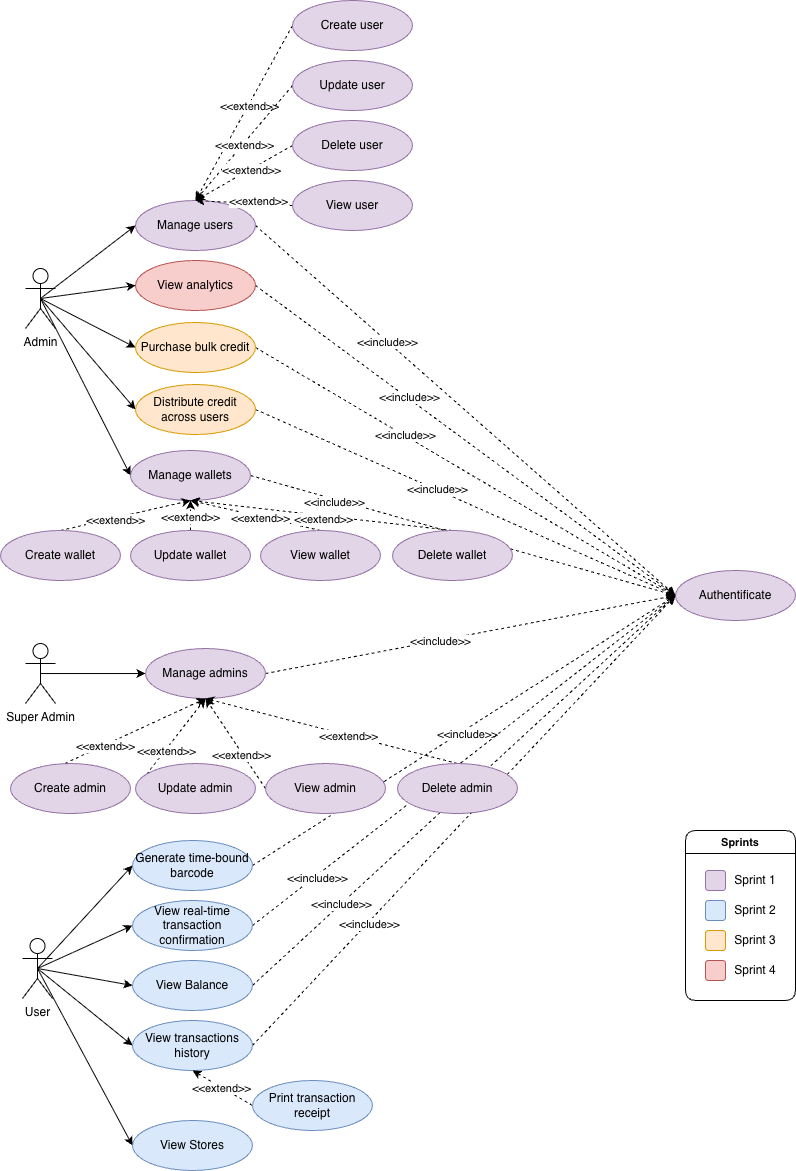
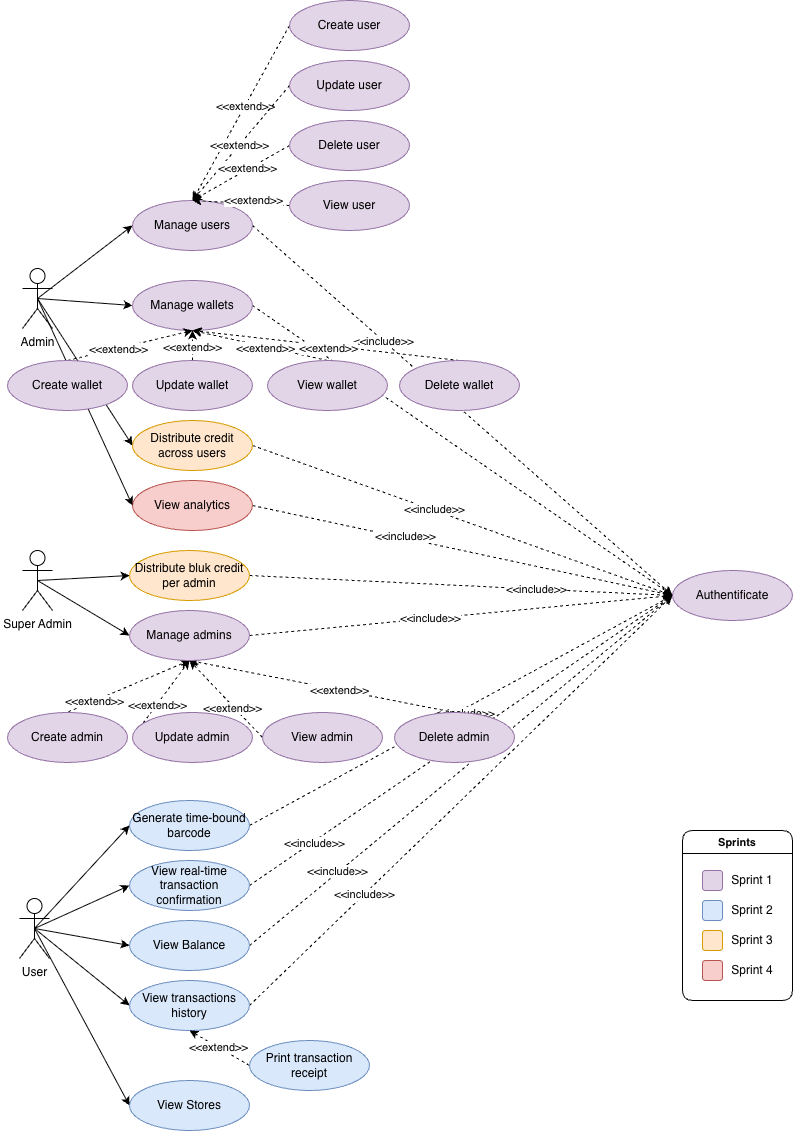
update use case for super admin credit distribution

diff --git a/chapters/chapter_4_sections/4.1_sprint_3.tex b/chapters/chapter_4_sections/4.1_sprint_3.tex
@@ -13,17 +13,17 @@ In this section, we first detail the Sprint 3 backlog, then present the design a
   \begin{tabular}{|p{1cm}|p{4cm}|p{7cm}|p{2cm}|}
     \hline
     \textbf{ID} & \textbf{User Story}               & \textbf{Description}                                                                                             & \textbf{Priority} \\ \hline
-    US7         & Purchase bulk credit & As an Admin, I want to purchase bulk credit for my organization to enable payment transactions for end users. & High            \\ \hline
-    US8         & Distribute credit across users       & As an Admin, I want to distribute purchased credit across end users to enable their payment capabilities. & Critical         \\ \hline
+    US7         & Distribute bulk credit to Admin & As a Super Admin, I want to distribute bulk credit to an Admin after they provide cash at ASM to enable their organizational payment capabilities. & High            \\ \hline
+    US8         & Distribute credit across users       & As an Admin, I want to distribute received credit across end users to enable their payment capabilities. & Critical         \\ \hline
   \end{tabular}
 \end{table}
 
 \subsection{Use Case Diagram}
 
-Figure~\ref{fig:uc_sprint3} presents the two major use cases developed during Sprint 3: purchasing bulk credit and distributing credit across users. It illustrates their respective interactions with the \textit{Admin} actor and the authentication system.
+Figure~\ref{fig:uc_sprint3} presents the two major use cases developed during Sprint 3: Super Admin distributing bulk credit to Admin and Admin distributing credit across users. It illustrates their respective interactions with the \textit{Super Admin} and \textit{Admin} actors and the authentication system.
 
 \begin{figure}[H]
-   \centering
+  \centering
   \includegraphics[width=0.8\textwidth]{images/usecase_sprint3.png}
   \caption{Use Case Diagram – Sprint 3}
   \label{fig:uc_sprint3}
@@ -33,48 +33,52 @@ Figure~\ref{fig:uc_sprint3} presents the two major use cases developed during Sp
 
 In this section, we detail each use case identified for Sprint 3.
 
-\subsubsection{Use Case "Purchase bulk credit"}
+\subsubsection{Use Case "Distribute bulk credit per admin"}
 
 \begin{longtable}{|p{0.2\textwidth}|p{0.75\textwidth}|}
-  \caption{Description of use case "Purchase bulk credit"}
-  \label{tab:uc_purchase_bulk_credit} \\
+  \caption{Description of use case "Distribute bulk credit per admin"}
+  \label{tab:uc_distribute_bulk_credit_admin} \\
   \hline
-  \textbf{Title} & Purchase bulk credit \\ \hline
-  \textbf{Actors} & Admin \\ \hline
-  \textbf{Description} & The Admin purchases bulk credit for their organization through email verification and Super Admin approval process. \\ \hline
+  \textbf{Title} & Distribute bulk credit per admin \\ \hline
+  \textbf{Actors} & Super Admin \\ \hline
+  \textbf{Description} & The Super Admin distributes bulk credit to an Admin after the Admin provides cash payment at ASM (physical location). This process involves balance verification and transaction processing through the web application. \\ \hline
   \textbf{Preconditions} & 
     \begin{itemize}[nosep,leftmargin=*]
-      \item The Admin is authenticated with valid credentials.
-      \item The Admin has sufficient funds or valid payment method.
-      \item Super Admin server is available for transaction processing.
+      \item The Super Admin is authenticated with valid credentials.
+      \item The Admin has provided cash payment at ASM.
+      \item Super Admin has sufficient balance to distribute.
+      \item Transaction controller is operational for processing.
     \end{itemize} \\ \hline
   \textbf{Postconditions} & 
     \begin{itemize}[nosep,leftmargin=*]
-      \item Bulk credit is purchased and added to Admin balance.
-      \item Transaction record is created with purchase details.
-      \item Admin receives confirmation of successful purchase.
+      \item Bulk credit is distributed and added to Admin balance.
+      \item Transaction record is created with distribution details.
+      \item Super Admin receives confirmation of successful distribution.
+      \item Admin receives notification of credit allocation.
     \end{itemize} \\ \hline
   \textbf{Main Scenario} &
     \begin{enumerate}[nosep,leftmargin=*]
-      \item Admin selects "Purchase Bulk Credit" option.
-      \item System displays credit purchase form with amount selection.
-      \item Admin enters desired credit amount and confirms.
-      \item System sends email verification to Admin.
-      \item Admin confirms via email verification link.
-      \item System forwards transaction to Super Admin server for processing.
-      \item Super Admin accepts the payment and provides credit to Admin.
-      \item System updates Admin total balance with purchased credit.
-      \item Admin receives success confirmation message.
+      \item Admin provides cash payment at ASM physical location.
+      \item Super Admin logs into the web application.
+      \item Super Admin selects "Distribute Credit to Admin" option.
+      \item System displays Admin selection form with amount input.
+      \item Super Admin selects target Admin and enters credit amount.
+      \item System validates Super Admin balance sufficiency.
+      \item Transaction controller processes credit distribution.
+      \item System updates Super Admin and Admin balances.
+      \item Super Admin receives success confirmation message.
+      \item Admin receives credit allocation notification.
     \end{enumerate} \\ \hline
   \textbf{Alternative Scenarios} &
     \begin{enumerate}[nosep,leftmargin=*]
-      \item If Admin cancels purchase, return to main dashboard.
-      \item If email verification expires, resend verification email.
+      \item If Super Admin modifies amount, recalculate and revalidate balance.
+      \item If Admin is not found, display Admin selection error.
     \end{enumerate} \\ \hline
   \textbf{Exception Scenarios} &
     \begin{enumerate}[nosep,leftmargin=*]
-      \item If Super Admin refuses payment, display "Payment rejected" with rejection email.
-      \item If transaction processing fails, show "Transaction failed, please retry".
+      \item If insufficient Super Admin balance, display "Not enough balance, credit distribution cancelled".
+      \item If transaction processing fails, show "Distribution failed, please retry".
+      \item If Admin account is inactive, display "Cannot distribute to inactive Admin".
       \item If network timeout occurs, display "Connection error, please retry".
     \end{enumerate} \\ \hline
 \end{longtable}
@@ -87,7 +91,7 @@ In this section, we detail each use case identified for Sprint 3.
   \hline
   \textbf{Title} & Distribute credit across users \\ \hline
   \textbf{Actors} & Admin \\ \hline
-  \textbf{Description} & Admin distributes purchased credit to end users within their organization, with balance validation and transaction processing. \\ \hline
+  \textbf{Description} & Admin distributes received credit to end users within their organization, with balance validation and transaction processing. \\ \hline
   \textbf{Preconditions} & 
     \begin{itemize}[nosep,leftmargin=*]
       \item Admin is authenticated and has sufficient credit balance.
@@ -125,23 +129,23 @@ In this section, we detail each use case identified for Sprint 3.
 
 \subsection{Sequence Diagrams}
 
-\subsubsection{Sequence Diagram - Purchase Bulk Credit}
+\subsubsection{Sequence Diagram - Distribute Bulk Credit to Admin}
 
-This diagram (see figure \ref{fig:seq_purchase_bulk_credit}) models the bulk credit purchase process with email verification and Super Admin approval:
+This diagram (see figure \ref{fig:seq_distribute_credit_to_admin}) models the bulk credit distribution process from Super Admin to Admin after cash payment at ASM:
 
 \begin{itemize}[nosep,leftmargin=*]
-  \item Admin initiates bulk credit purchase request.
-  \item System sends email verification and waits for confirmation.
-  \item Upon email confirmation, transaction is forwarded to Super Admin server.
-  \item Super Admin processes payment and either accepts or refuses the transaction.
-  \item System updates Admin balance and provides confirmation.
+  \item Super Admin initiates credit distribution request after Admin provides cash at ASM.
+  \item System validates Super Admin balance sufficiency.
+  \item Transaction controller processes the credit distribution.
+  \item System updates both Super Admin and Admin balances.
+  \item Super Admin receives success confirmation or error message.
 \end{itemize}
 
 \begin{figure}[H] 
   \centering
-  \includegraphics[width=0.9\textwidth,keepaspectratio]{images/seq_purchase_bulk_credit.png}
-  \caption{Sequence Diagram "Purchase Bulk Credit"}
-  \label{fig:seq_purchase_bulk_credit}
+  \includegraphics[width=0.9\textwidth,keepaspectratio]{images/seq_distribute_credit_to_admin.png}
+  \caption{Sequence Diagram "Distribute Bulk Credit to Admin"}
+  \label{fig:seq_distribute_credit_admin}
 \end{figure}
 
 \subsubsection{Sequence Diagram - Distribute Credit Across Users}
@@ -164,43 +168,44 @@ This diagram (see figure \ref{fig:seq_distribute_credit}) shows the credit distr
 
 \subsection{Realization (Sprint 3)}
 
-In this section, we present the main interfaces developed during Sprint 3, dedicated to credit management functionality. This work involved implementing bulk credit purchasing and credit distribution systems. Each interface is illustrated with screenshots and accompanied by descriptions of functionality and user journey.
+In this section, we present the main interfaces developed during Sprint 3, dedicated to credit management functionality. This work involved implementing Super Admin credit distribution to Admins and Admin credit distribution to end users. Each interface is illustrated with screenshots and accompanied by descriptions of functionality and user journey.
 
-\subsubsection{Bulk Credit Purchase Interface}
+\subsubsection{Super Admin Credit Distribution Interface}
 
-The bulk credit purchase interface guides Admins through the credit purchasing process with email verification and Super Admin approval.
+The Super Admin credit distribution interface enables Super Admins to allocate credit to Admins after they provide cash payment at ASM.
 
 \begin{figure}[H]
   \centering
-  \fbox{\parbox{\textwidth}{\centering\vspace{3cm}[Bulk Credit Purchase Interface Screenshot Placeholder]\\\vspace{0.5cm}This will show the credit purchase form with amount selection, payment method,\\email verification process, and Super Admin approval workflow.\vspace{3cm}}}
-  \caption{Bulk Credit Purchase Interface}
-  \label{fig:sprint3_purchase_interface}
+  \fbox{\parbox{\textwidth}{\centering\vspace{3cm}[Super Admin Credit Distribution Interface Screenshot Placeholder]\\\vspace{0.5cm}This will show the Admin selection dropdown, credit amount input field,\\balance validation display, and distribution confirmation with real-time balance updates.\vspace{3cm}}}
+  \caption{Super Admin Credit Distribution Interface}
+  \label{fig:sprint3_superadmin_distribution_interface}
 \end{figure}
 
 — \textbf{States presented:}
 \begin{itemize}[nosep,leftmargin=*,label=•]
-  \item \textbf{Amount selection}  
-    Admin selects desired credit amount with pricing display.
-  \item \textbf{Payment method}  
-    Selection of payment method and billing information.
-  \item \textbf{Email verification}  
-    System sends verification email for transaction security.
-  \item \textbf{Super Admin approval}  
-    Transaction forwarded to Super Admin for processing.
+  \item \textbf{Admin selection}  
+    Dropdown list of all Admins with their current balance display.
+  \item \textbf{Amount input}  
+    Input field for specifying credit amount to distribute.
+  \item \textbf{Balance validation}  
+    Real-time validation of sufficient Super Admin balance.
+  \item \textbf{Distribution confirmation}  
+    Summary and confirmation of credit distribution to Admin.
 \end{itemize}
 
-— \textbf{Credit purchase flow:}
+— \textbf{Credit distribution flow:}
 \begin{itemize}[nosep,leftmargin=*,label=•]
-  \item Admin is authenticated and accesses purchase form.
-  \item Admin selects credit amount and confirms purchase details.
-  \item System sends email verification for security confirmation.
-  \item Upon email verification, transaction is sent to Super Admin for approval.
-  \item Super Admin processes payment and credits are added to Admin balance.
+  \item Admin provides cash payment at ASM physical location.
+  \item Super Admin is authenticated and accesses distribution interface.
+  \item Super Admin selects target Admin from dropdown list.
+  \item Super Admin enters credit amount corresponding to cash received.
+  \item System validates sufficient Super Admin balance for distribution.
+  \item Upon confirmation, credit is distributed and both balances are updated.
 \end{itemize}
 
 \subsubsection{Credit Distribution Dashboard}
 
-The credit distribution dashboard enables Admins to allocate purchased credit across their end users.
+The credit distribution dashboard enables Admins to allocate received credit across their end users.
 
 \begin{figure}[H]
   \centering

diff --git a/chapters/chapter_1_sections/1.3_proposed_solution.tex b/chapters/chapter_1_sections/1.3_proposed_solution.tex
@@ -2,7 +2,7 @@
 
 \subsection{General presentation of the solution}
 
-To address the identified needs and overcome the shortcomings of existing applications, we propose \textbf{Credix}, a comprehensive, modular, and scalable web-based application. It centralizes the management of digital meal vouchers, secure payments, admin credit distribution, and real-time transaction tracking within a secure and ergonomic interface. Designed with Angular for the front-end and Spring Boot for the back-end, Credix relies on a robust, continuously deployed architecture via CI/CD pipelines, ensuring rapid updates, reliability, and accessibility from any device.
+To address the identified needs and overcome the shortcomings of existing applications, we propose \textbf{Credix}, a comprehensive, modular, and scalable web-based application. It centralizes the management of digital meal vouchers, secure payments, corporate credit distribution, and real-time transaction tracking within a secure and ergonomic interface. Designed with Angular for the front-end and Spring Boot for the back-end, Credix relies on a robust, continuously deployed architecture via CI/CD pipelines, ensuring rapid updates, reliability, and accessibility from any device.
 
 \subsection{Key Solution Functions}
 
@@ -16,13 +16,13 @@ Credix offers a suite of functionalities designed to streamline credit managemen
     Users can initiate payments by generating a unique, time-bound 1D barcode (Code128 format) directly from their wallet interface. Each barcode has a 30-second validity window to prevent unauthorized reuse or interception. Upon scanning, the Spring Boot backend validates the barcode in real-time, verifies the user's wallet balance, processes the transaction by debiting the user's wallet and crediting the merchant's account, and returns an immediate confirmation or error message.
 
     \item \textbf{Hierarchical Credit Management:}
-    Credix implements a three-tier role-based system (SUPER\_ADMIN, ADMIN, USER) enabling efficient credit distribution across organizational hierarchies. SUPER\_ADMIN users can purchase and distribute bulk credit to ADMIN users, who in turn allocate credit to end-USER accounts. Each wallet can be configured with specific transfer amounts, allowing precise control over credit allocation limits. The system supports bulk credit transfer operations, enabling administrators to distribute credits to multiple users simultaneously based on predefined wallet transfer amounts, significantly reducing manual effort and ensuring consistent allocation.
+    Credix implements a three-tier role-based system (SUPER\_ADMIN, ADMIN, USER) enabling efficient credit distribution across organizational hierarchies. SUPER\_ADMIN users distribute bulk credit to ADMIN users after Admins provide cash payment at ASM (physical location). Admins in turn allocate credit to end-USER accounts. Each wallet can be configured with specific transfer amounts, allowing precise control over credit allocation limits. The system supports bulk credit transfer operations, enabling administrators to distribute credits to multiple users simultaneously based on predefined wallet transfer amounts, significantly reducing manual effort and ensuring consistent allocation.
 
     \item \textbf{Comprehensive Dashboards and Reporting:}
     Administrators have access to real-time dashboards displaying credit consumption trends, user spending patterns, and transaction summaries. The system generates detailed financial reports in PDF and CSV formats, including credit allocation histories, usage summaries, and transaction details. Visual graphs and charts provide insights into spending behavior, with dynamic filtering capabilities by period, user, and transaction type. Users can view their personal transaction history and current wallet balance through intuitive interfaces.
 
     \item \textbf{Admin and User Portals:}
-    The platform provides role-specific web interfaces tailored to each user type. SUPER\_ADMIN and ADMIN users access comprehensive management dashboards for user account creation, wallet management, bulk credit distribution, and system monitoring. End-USER accounts access simplified interfaces displaying wallet balance, transaction history, barcode generation for payments, and profile management. All interfaces are designed with responsive layouts ensuring optimal user experience across desktop and mobile devices.
+    The platform provides role-specific web interfaces tailored to each user type. SUPER\_ADMIN and ADMIN users access comprehensive management dashboards for user account creation, wallet management, credit distribution, and system monitoring. End-USER accounts access simplified interfaces displaying wallet balance, transaction history, barcode generation for payments, and profile management. All interfaces are designed with responsive layouts ensuring optimal user experience across desktop and mobile devices.
 
     \item \textbf{Robust Security Architecture:}
     The system implements JWT-based authentication with secure token refresh mechanisms, ensuring session security without compromising user experience. All sensitive data, including wallet IDs and transaction details, are encrypted both in transit and at rest. The platform enforces role-based access control (RBAC), ensuring users can only access functionalities appropriate to their permission level. Transaction logs are maintained for audit purposes, providing complete traceability of all credit movements and system operations.
@@ -49,9 +49,9 @@ Credix offers a suite of functionalities designed to streamline credit managemen
         & \textcolor{orange}{\ding{70}} Desktop applications required
         & \textcolor{green}{\ding{51}} Modern Angular interface accessible anywhere \\
         \hline
-        Bulk Credit Transfer Operations
+        Credit Distribution Operations
         & \textcolor{red}{\ding{55}} Manual individual transfers
-        & \textcolor{green}{\ding{51}} Automated bulk transfers with predefined amounts \\
+        & \textcolor{green}{\ding{51}} Hierarchical distribution from Super Admin to Admin to Users \\
         \hline
         Real-time Transaction Processing
         & \textcolor{orange}{\ding{70}} Delayed batch processing
@@ -60,6 +60,10 @@ Credix offers a suite of functionalities designed to streamline credit managemen
         Configurable Wallet Transfer Limits
         & \textcolor{orange}{\ding{70}} Fixed allocation rules
         & \textcolor{green}{\ding{51}} Flexible per-wallet transfer amount configuration \\
+        \hline
+        Comprehensive Reporting
+        & \textcolor{orange}{\ding{70}} Basic transaction lists
+        & \textcolor{green}{\ding{51}} Visual dashboards with PDF/CSV export \\
         \hline
         Role-Based Access Control
         & \textcolor{orange}{\ding{70}} Basic user permissions

diff --git a/chapters/general_conclusion.tex b/chapters/general_conclusion.tex
@@ -1,8 +1,8 @@
 \chapter*{General Conclusion}
 \addcontentsline{toc}{chapter}{General Conclusion}
 
-At the end of this project, we have a complete Credix digital payment management platform, designed and developed using Agile Scrum methodology. From Release 1, the foundations were established with the implementation of secure authentication (JWT), fine-grained role management (Corporate, End User, Admin) and microservices architecture, as well as a credit management system for inter-company transactions.\par 
+At the end of this project, we have a complete Credix digital payment management platform, designed and developed using Agile Scrum methodology. From Release 1, the foundations were established with the implementation of secure authentication (JWT), fine-grained role management (Super Admin, Admin, End User) and microservices architecture, as well as a credit management system for inter-company transactions.\par 
 
-Release 2 enriched these building blocks with the integration of a bulk credit management system for companies, the implementation of automated credit distribution to end users, and the addition of advanced transaction monitoring. In parallel, an analytics and financial reporting system provides complete visibility on payment flows and expenses. Finally, the entire system was industrialized through CI/CD pipelines: Jenkins orchestrates the generation and publication of React/Node.js artifacts, Docker ensures containerization and automated deployment of microservices, while PostgreSQL and cloud services guarantee data persistence and scalability. This modular and scalable architecture meets performance, security and traceability requirements, while offering a smooth and responsive user experience.\par
+Release 2 enriched these building blocks with the integration of a hierarchical credit distribution system where Super Admins distribute bulk credit to Admins after cash payment at ASM, the implementation of automated credit distribution from Admins to end users, and the addition of advanced transaction monitoring. In parallel, an analytics system provides complete visibility on payment flows and expenses. Finally, the entire system was industrialized through CI/CD pipelines: Jenkins orchestrates the generation and publication of React/Node.js artifacts, Docker ensures containerization and automated deployment of microservices, while PostgreSQL and cloud services guarantee data persistence and scalability. This modular and scalable architecture meets performance, security and traceability requirements, while offering a smooth and responsive user experience.\par
 
 For the future, opening up to new payment methods, enriching predictive analytics functionalities and extending to other business sectors constitute many avenues to make Credix an increasingly intelligent solution centered on business needs.

diff --git a/chapters/chapter_2_sections/2.5_global_use_case_analysis.tex b/chapters/chapter_2_sections/2.5_global_use_case_analysis.tex
@@ -6,7 +6,7 @@ The global use case diagram provides a comprehensive overview of the Credix paym
 
 The Credix ecosystem operates through three primary actors, each with distinct roles and access privileges:
 
-\textbf{SUPER\_ADMIN Actor:} Represents the top-level system administrators who oversee the entire Credix platform. This actor manages ADMIN accounts, distributes bulk credits to ADMINs, monitors system-wide activity, and maintains overall platform governance and operational oversight.
+\textbf{SUPER\_ADMIN Actor:} Represents the top-level system administrators who oversee the entire Credix platform. This actor manages ADMIN accounts, distributes bulk credits to ADMINs after they provide cash payment at ASM, monitors system-wide activity, and maintains overall platform governance and operational oversight.
 
 \textbf{ADMIN Actor:} Represents the business entities that utilize Credix for employee payment management. This actor encompasses the administrative and managerial functions essential for organizational payment operations, including bulk credit management, user administration, financial oversight, and comprehensive analytics capabilities.
 
@@ -29,7 +29,7 @@ The global use case diagram strategically organizes system functionality across 
 
 \textbf{Sprint 2 (Blue):} Implements core user transactional capabilities, including balance viewing, transaction history access, time-bound barcode generation for secure payments, and real-time transaction confirmation systems. This sprint delivers the essential payment functionality that users require for daily operations.
 
-\textbf{Sprint 3 (Orange):} Focuses on advanced credit management operations, enabling ADMIN actors to purchase bulk credit, distribute credit across users, and monitor user transactions. This sprint addresses the sophisticated financial management requirements of admin clients.
+\textbf{Sprint 3 (Orange):} Focuses on hierarchical credit management operations, enabling SUPER\_ADMIN to distribute bulk credit to ADMIN after cash payment at ASM, and ADMIN to distribute credit across end users. This sprint addresses the sophisticated financial management requirements of the credit distribution hierarchy.
 
 \textbf{Sprint 4 (Red):} Delivers comprehensive analytics and reporting capabilities, allowing ADMIN actors to view spending analytics and generate detailed financial reports. This sprint provides the business intelligence tools necessary for informed decision-making and financial oversight.
 

diff --git a/chapters/general_introduction.tex b/chapters/general_introduction.tex
@@ -9,7 +9,7 @@ This shift is particularly evident in Tunisia, where digital transformation is a
 
 In response to these evolving needs, this end-of-studies project proposes the design and implementation of a web-based credit management platform called Credix. The project aims to deliver a fully integrated system that connects an Angular-based web application with a Spring Boot backend and PostgreSQL database, enabling hierarchical credit distribution, wallet management, and transaction processing through a three-tier role system (SUPER\_ADMIN, ADMIN, and USER).
 
-Beyond its functional scope, the system addresses key challenges such as role-based access control, bulk credit transfers with configurable amounts, wallet-based transactions using barcodes, and comprehensive transaction history tracking. The solution supports enterprise-level features including hierarchical credit distribution from super administrators to admins to end users, making it suitable for organizational deployment where controlled credit allocation is essential.
+Beyond its functional scope, the system addresses key challenges such as role-based access control, hierarchical credit distribution with configurable amounts, wallet-based transactions using barcodes, and comprehensive transaction history tracking. The solution supports enterprise-level features including credit distribution from Super Admins to Admins (after cash payment at ASM) and from Admins to end users, making it suitable for organizational deployment where controlled credit allocation is essential.
 
 This thesis is organized into several chapters to provide a structured presentation of the project. The first chapter introduces the host organization and outlines the project objectives, followed by an analytical study of existing solutions. The second chapter elaborates on the proposed system architecture, detailing both functional and non-functional requirements, along with the rationale behind the technological choices made. The third and fourth chapters document the development process, divided into iterative sprints, highlighting implementation strategies, challenges encountered, and solutions applied.
 

diff --git a/chapters/chapter_2_sections/2.2_functional_requirements.tex b/chapters/chapter_2_sections/2.2_functional_requirements.tex
@@ -21,7 +21,7 @@ Functional requirements describe the set of services and interactions that the s
 
 \subsection{Credit Management (Sprint 3)}
 \begin{itemize}
-    \item \textbf{Bulk Credit Distribution}: SUPER\_ADMIN can distribute credit in bulk to ADMIN users based on predefined wallet transfer amounts.
+    \item \textbf{Hierarchical Credit Distribution}: SUPER\_ADMIN distributes credit to ADMIN users after Admin provides cash payment at ASM, based on predefined wallet transfer amounts.
     \item \textbf{Credit Allocation}: ADMIN users can allocate and de-allocate credit to individual USER accounts with customizable spending limits.
     \item \textbf{Transaction Monitoring}: Real-time tracking of user transactions, credit consumption, and remaining balances across the hierarchy.
     \item Management of credit pools at each level, including top-up functionalities and balance tracking.
@@ -37,4 +37,14 @@ Functional requirements describe the set of services and interactions that the s
     \item Real-time analytics updates with drill-down capabilities for detailed transaction analysis.
     \item Automated report scheduling and delivery to administrators.
     \item Comparative analytics across different time periods and user groups.
+\end{itemize}
+
+\subsection{System Administration and Security}
+\begin{itemize}
+    \item Administrator dashboard for real-time system monitoring, user activity logs, and transaction oversight.
+    \item System alerts for errors or critical events.
+    \item Secure tokenization of wallet IDs and sensitive data encryption.
+    \item Multi-language support for notifications and interfaces (English, French, Arabic).
+    \item Transaction history and settlement tracking for all user levels.
+    \item Customizable notification preferences for all user types.
 \end{itemize}

diff --git a/chapters/chapter_1_sections/1.4_methodology_and_project_management.tex b/chapters/chapter_1_sections/1.4_methodology_and_project_management.tex
@@ -113,7 +113,8 @@ Prior to the core development cycle, we conducted a two-week preliminary phase c
 \textbf{Sprint 3} & 
 \begin{itemize}
   \item Hierarchical credit distribution (SUPER\_ADMIN to ADMIN to USER)
-  \item Bulk credit transfer functionality
+  \item Super Admin distributes credit to Admin after cash payment at ASM
+  \item Admin distributes credit to end users
   \item Wallet transfer amount configuration
 \end{itemize}
 & 4 weeks \\
@@ -121,7 +122,8 @@ Prior to the core development cycle, we conducted a two-week preliminary phase c
 
 \textbf{Sprint 4} & 
 \begin{itemize}
-  \item View analytics dashboard
+  \item View spending analytics dashboard
+  \item Generate financial reports (CSV/PDF)
   \item CI/CD pipelines and deployment automation
 \end{itemize}
 & 4 weeks \\
@@ -149,14 +151,12 @@ To align with Scrum methodology, the project is structured into two releases, ea
     sprintGreen/.style={draw, fill=green!30, rounded corners=4pt, minimum width=2cm, minimum height=1cm, align=center, font=\small\bfseries}
   ]
   
-  % Release 1
   \node[box, fill=blue!30] (r1) at (0,0) {};
   \node at (r1.north) [yshift=0.3cm, font=\bfseries\large] {Release 1};
   \node at (r1.center) [yshift=0.8cm, font=\small] {From April 1 to June 1};
   \node[sprintOrange] at ([xshift=-1.2cm, yshift=-0.3cm]r1.center) {Sprint 1};
   \node[sprintYellow] at ([xshift=1.2cm, yshift=-0.3cm]r1.center) {Sprint 2};
   
-  % Release 2
   \node[box, fill=red!30] (r2) at (7,0) {};
   \node at (r2.north) [yshift=0.3cm, font=\bfseries\large] {Release 2};
   \node at (r2.center) [yshift=0.8cm, font=\small] {From June 2 to August 31};

diff --git a/chapters/chapter_4_sections/4.3_conclusion.tex b/chapters/chapter_4_sections/4.3_conclusion.tex
@@ -1,4 +1,4 @@
 \section*{Conclusion}
 \addcontentsline{toc}{section}{Conclusion}
 
-This chapter detailed the final two sprints of Release 2 for the Credix payment system. Sprint 3 implemented comprehensive credit management including bulk credit purchasing and distribution across users. Sprint 4 enhanced the platform with analytics capabilities, providing Admins with powerful insights into transaction patterns and credit usage. Together, these iterations deliver a mature payment platform with robust credit management and analytical capabilities.
+This chapter detailed the final two sprints of Release 2 for the Credix payment system. Sprint 3 implemented comprehensive credit management where Super Admins distribute bulk credit to Admins after cash payment at ASM, and Admins distribute credit across end users. Sprint 4 enhanced the platform with analytics capabilities, providing Admins with powerful insights into transaction patterns and credit usage. Together, these iterations deliver a mature payment platform with robust credit management and analytical capabilities.

diff --git a/chapters/chapter_4_sections/4.0_introduction.tex b/chapters/chapter_4_sections/4.0_introduction.tex
@@ -1,4 +1,4 @@
 \section*{Introduction}
 \addcontentsline{toc}{section}{Introduction}
 
-After establishing the foundational payment system during Release 1, Release 2 of Credix unfolds over two four-week sprints. Sprint 3 focuses on credit management including bulk credit purchasing and credit distribution across end users, while Sprint 4 concentrates on analytics and deployment with spending analytics capabilities and system deployment optimization.
+After establishing the foundational payment system during Release 1, Release 2 of Credix unfolds over two four-week sprints. Sprint 3 focuses on credit management including Super Admin distributing bulk credit to Admins and Admin distributing credit across end users, while Sprint 4 concentrates on analytics and deployment with spending analytics capabilities and system deployment optimization.
